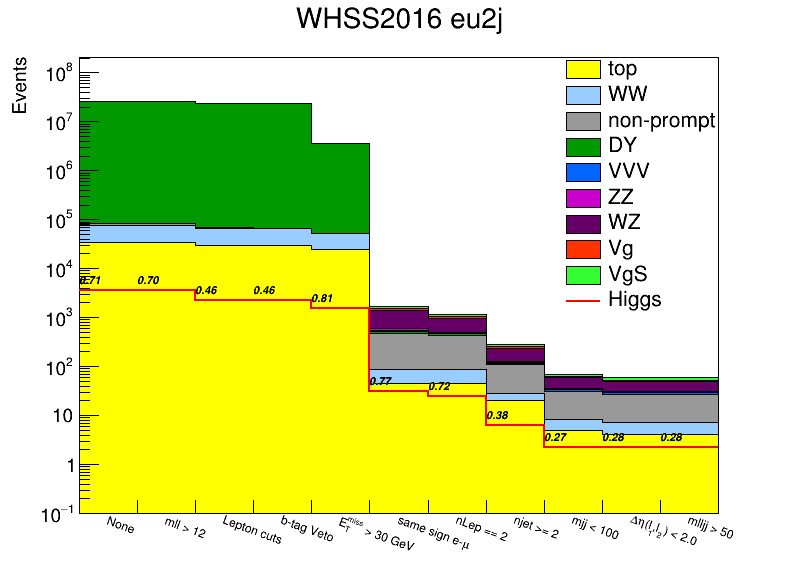
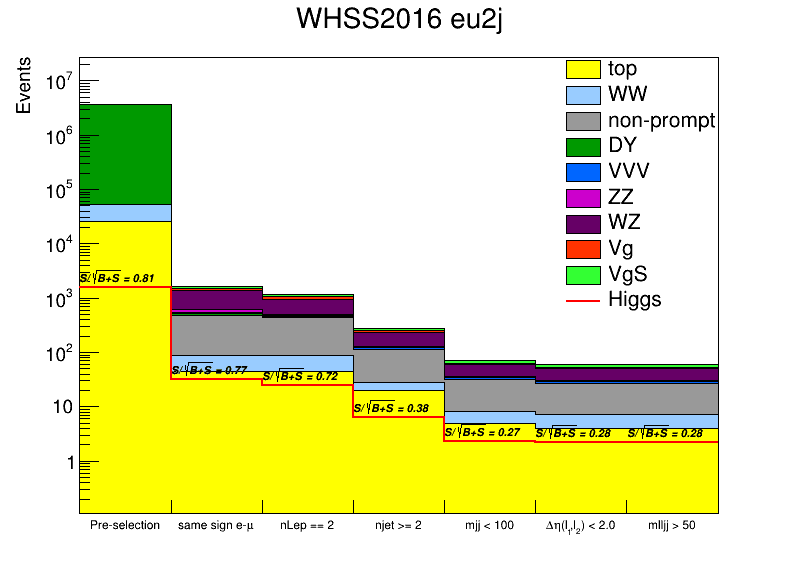
show only pre-selection

diff --git a/cutflow/cutflow.py b/cutflow/cutflow.py
@@ -3,7 +3,7 @@ from collections import OrderedDict
 
 ROOT.gStyle.SetPaintTextFormat("4.2f")
 
-year="2018"
+year="2016"
 
 process={
     'top'        : [ "histo_top" ],
@@ -46,7 +46,8 @@ filter_label={
     'cut1_mll12' : 'mll > 12', 
     'cut2_lepPt'  : 'Lepton cuts', 
     'cut3_bVeto'  : 'b-tag Veto', 
-    'cut4_metcut' : 'E_{T}^{miss} > 30 GeV',
+    #'cut4_metcut' : 'E_{T}^{miss} > 30 GeV',
+    'cut4_metcut' : 'Pre-selection',
     'cut5_SS_inclusive' : 'Same sign',
     'cut6_SS_inclusive_1j' : 'njet >= 1',
     'cut7_SS_inclusive_1j_deta2' : '#Delta#eta(l_{1},l_{2}) < 2.0',
@@ -86,12 +87,21 @@ var="events"
 #var="mlljj20_whss_bin3"
 
 #template_yield =OrderedDict({'nS' : 0. , 'nB' : 0. , 'bkgs' : {} , 'data' : 0. , 'sig' : 0. })
-cutflow_incl_1j = [ 'cut0_all' , 'cut1_mll12', 'cut2_lepPt', 'cut3_bVeto', 'cut4_metcut', 'cut5_SS_inclusive', 'cut6_SS_inclusive_1j', 'cut7_SS_inclusive_1j_deta2', 'cut8_SS_inclusive_1j_mlljj50' ]
-cutflow_incl_2j = [ 'cut0_all' , 'cut1_mll12', 'cut2_lepPt', 'cut3_bVeto', 'cut4_metcut', 'cut5_SS_inclusive', 'cut6_SS_inclusive_2j', 'cut7_SS_inclusive_2j_mjj100' , 'cut8_SS_inclusive_2j_deta2', 'cut9_SS_inclusive_2j_mlljj50' ]
-cutflow_uu_1j = [ 'cut0_all' , 'cut1_mll12', 'cut2_lepPt', 'cut3_bVeto', 'cut4_metcut', 'cut5_SFuu', 'cut6_SFuu_nLep2', 'cut7_SFuu_1j', 'cut8_SFuu_1j_deta2', 'cut9_SFuu_1j_Zveto', 'cut10_SFuu_1j_mlljj50' ]
-cutflow_uu_2j = [ 'cut0_all' , 'cut1_mll12', 'cut2_lepPt', 'cut3_bVeto', 'cut4_metcut', 'cut5_SFuu', 'cut6_SFuu_nLep2', 'cut7_SFuu_2j', 'cut8_SFuu_2j_mjj100', 'cut9_SFuu_2j_deta2', 'cut10_SFuu_2j_Zveto', 'cut11_SFuu_2j_mlljj50' ] 
-cutflow_eu_1j = [ 'cut0_all' , 'cut1_mll12', 'cut2_lepPt', 'cut3_bVeto', 'cut4_metcut', 'cut5_OFeu', 'cut6_OFeu_nLep2', 'cut7_OFeu_1j', 'cut8_OFeu_1j_deta2', 'cut9_OFeu_1j_mlljj50' ]
-cutflow_eu_2j = [ 'cut0_all' , 'cut1_mll12', 'cut2_lepPt', 'cut3_bVeto', 'cut4_metcut', 'cut5_OFeu', 'cut6_OFeu_nLep2', 'cut7_OFeu_2j', 'cut8_OFeu_2j_mjj100', 'cut9_OFeu_2j_deta2', 'cut10_OFeu_2j_mlljj50' ]
+#cutflow_incl_1j = [ 'cut0_all' , 'cut1_mll12', 'cut2_lepPt', 'cut3_bVeto', 'cut4_metcut', 'cut5_SS_inclusive', 'cut6_SS_inclusive_1j', 'cut7_SS_inclusive_1j_deta2', 'cut8_SS_inclusive_1j_mlljj50' ]
+#cutflow_incl_2j = [ 'cut0_all' , 'cut1_mll12', 'cut2_lepPt', 'cut3_bVeto', 'cut4_metcut', 'cut5_SS_inclusive', 'cut6_SS_inclusive_2j', 'cut7_SS_inclusive_2j_mjj100' , 'cut8_SS_inclusive_2j_deta2', 'cut9_SS_inclusive_2j_mlljj50' ]
+#cutflow_uu_1j = [ 'cut0_all' , 'cut1_mll12', 'cut2_lepPt', 'cut3_bVeto', 'cut4_metcut', 'cut5_SFuu', 'cut6_SFuu_nLep2', 'cut7_SFuu_1j', 'cut8_SFuu_1j_deta2', 'cut9_SFuu_1j_Zveto', 'cut10_SFuu_1j_mlljj50' ]
+#cutflow_uu_2j = [ 'cut0_all' , 'cut1_mll12', 'cut2_lepPt', 'cut3_bVeto', 'cut4_metcut', 'cut5_SFuu', 'cut6_SFuu_nLep2', 'cut7_SFuu_2j', 'cut8_SFuu_2j_mjj100', 'cut9_SFuu_2j_deta2', 'cut10_SFuu_2j_Zveto', 'cut11_SFuu_2j_mlljj50' ] 
+#cutflow_eu_1j = [ 'cut0_all' , 'cut1_mll12', 'cut2_lepPt', 'cut3_bVeto', 'cut4_metcut', 'cut5_OFeu', 'cut6_OFeu_nLep2', 'cut7_OFeu_1j', 'cut8_OFeu_1j_deta2', 'cut9_OFeu_1j_mlljj50' ]
+#cutflow_eu_2j = [ 'cut0_all' , 'cut1_mll12', 'cut2_lepPt', 'cut3_bVeto', 'cut4_metcut', 'cut5_OFeu', 'cut6_OFeu_nLep2', 'cut7_OFeu_2j', 'cut8_OFeu_2j_mjj100', 'cut9_OFeu_2j_deta2', 'cut10_OFeu_2j_mlljj50' ]
+
+## preselection - cuts 
+cutflow_incl_1j = [ 'cut4_metcut', 'cut5_SS_inclusive', 'cut6_SS_inclusive_1j', 'cut7_SS_inclusive_1j_deta2', 'cut8_SS_inclusive_1j_mlljj50' ]
+cutflow_incl_2j = [ 'cut4_metcut', 'cut5_SS_inclusive', 'cut6_SS_inclusive_2j', 'cut7_SS_inclusive_2j_mjj100' , 'cut8_SS_inclusive_2j_deta2', 'cut9_SS_inclusive_2j_mlljj50' ]
+cutflow_uu_1j = [ 'cut4_metcut', 'cut5_SFuu', 'cut6_SFuu_nLep2', 'cut7_SFuu_1j', 'cut8_SFuu_1j_deta2', 'cut9_SFuu_1j_Zveto', 'cut10_SFuu_1j_mlljj50' ]
+cutflow_uu_2j = [ 'cut4_metcut', 'cut5_SFuu', 'cut6_SFuu_nLep2', 'cut7_SFuu_2j', 'cut8_SFuu_2j_mjj100', 'cut9_SFuu_2j_deta2', 'cut10_SFuu_2j_Zveto', 'cut11_SFuu_2j_mlljj50' ]
+cutflow_eu_1j = [ 'cut4_metcut', 'cut5_OFeu', 'cut6_OFeu_nLep2', 'cut7_OFeu_1j', 'cut8_OFeu_1j_deta2', 'cut9_OFeu_1j_mlljj50' ]
+cutflow_eu_2j = [ 'cut4_metcut', 'cut5_OFeu', 'cut6_OFeu_nLep2', 'cut7_OFeu_2j', 'cut8_OFeu_2j_mjj100', 'cut9_OFeu_2j_deta2', 'cut10_OFeu_2j_mlljj50' ]
+
 
 workflow=OrderedDict()
 #prepare structure
@@ -120,17 +130,30 @@ for icutflow in workflow:
                 'nB' : nB , 
                 'bkgs' : process_ , 
                 'data' : f.Get( '%s/%s/histo_DATA'%( icut , var ) ).Integral() , 
-                'sig' : (nS)/ROOT.TMath.Sqrt(nB+nS)
+                # http://tid.uio.no/epf/seminar/slides/simpleopt.pdf
+                'sig' : (nS)/ROOT.TMath.Sqrt(nB+nS) # optimize power (sensitivity) of analysis
+                #'sig' : (nS)/ROOT.TMath.Sqrt(nB)   # optimize significance of signal
             }
         )
         workflow[icutflow][icut] = template_yield
 ###############################################################################################
 canvas={}
 useDATA=False
+#exclusive=False
+#gap=0
+#if exclusive:
+#    gap=3
 
 # each cutflow one histogram
 for icutflow in workflow:
     xlabels = list(workflow[icutflow].keys())
+    #xlabels_ = []
+    #if exclusive:
+    #    for icut in xlabels:
+    #        if int(icut.split('_')[0].split('cut')[-1]) <3 : continue
+    #        print(icut)
+    #        xlabels_.append(icut)
+    #xlabels = xlabels_
     nbins = len(xlabels)
     hist=OrderedDict()
     
@@ -150,6 +173,8 @@ for icutflow in workflow:
     
     # iterate cut and fill histogram of background composition
     for icut, ibin in zip( workflow[icutflow] , range(0,nbins) ):
+        #if exclusive:
+        #    if int(icut.split('_')[0].split('cut')[-1]) <gap : continue 
         for ihist in hist: hist[ihist].Fill( ibin , workflow[icutflow][icut]['bkgs'][ihist] )
         hist_signal.Fill( ibin , workflow[icutflow][icut]['nS'] )
         if useDATA: hist_data.Fill( ibin , workflow[icutflow][icut]['data'] )
@@ -207,7 +232,7 @@ for icutflow in workflow:
     bkg.Draw("HIST") # stack
     hist_signal.Scale(1) # scale signal
     
-    for icut, ibin in zip( workflow[icutflow] , range(0,nbins)): latex.DrawLatex( ibin , hist_signal.GetBinContent(ibin+1)*1.6 , '%.2f' %workflow[icutflow][icut]['sig'] ) # S/#sqrt{B}=%.2f
+    for icut, ibin in zip( workflow[icutflow] , range(0,nbins)): latex.DrawLatex( ibin , hist_signal.GetBinContent(ibin+1)*1.6 , 'S/#sqrt{B+S} = %.2f' %workflow[icutflow][icut]['sig'] ) # S/#sqrt{B}=%.2f
     
     hist_signal.Draw("SAME, HIST") # sum of bkg
     if useDATA: hist_data.Draw("SAME, PE")
